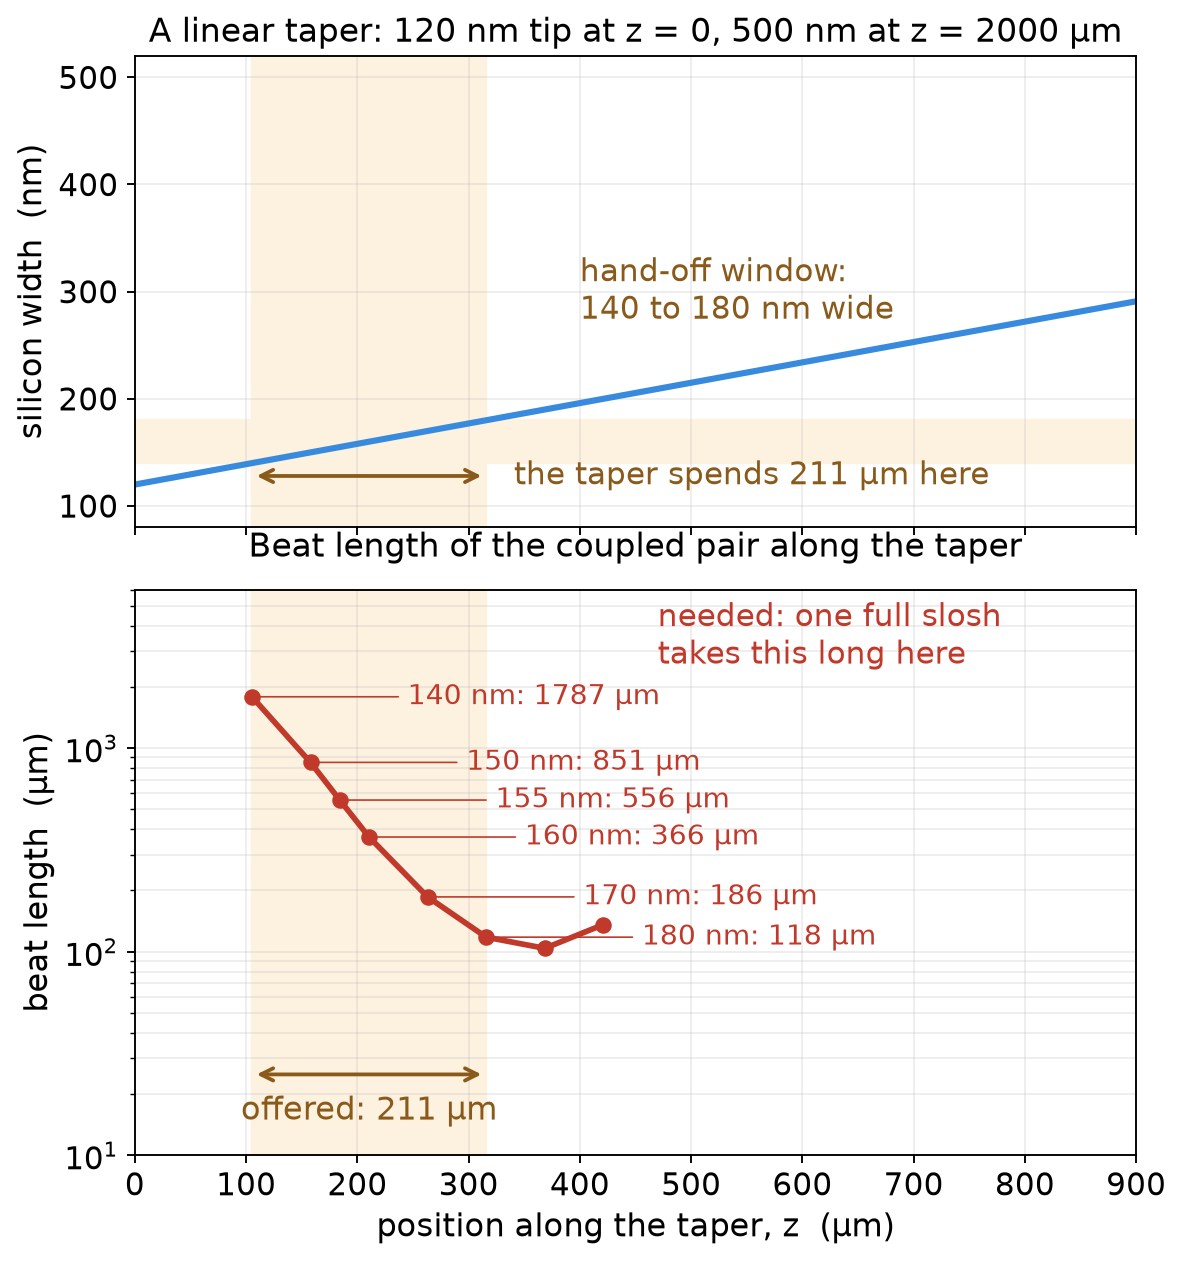
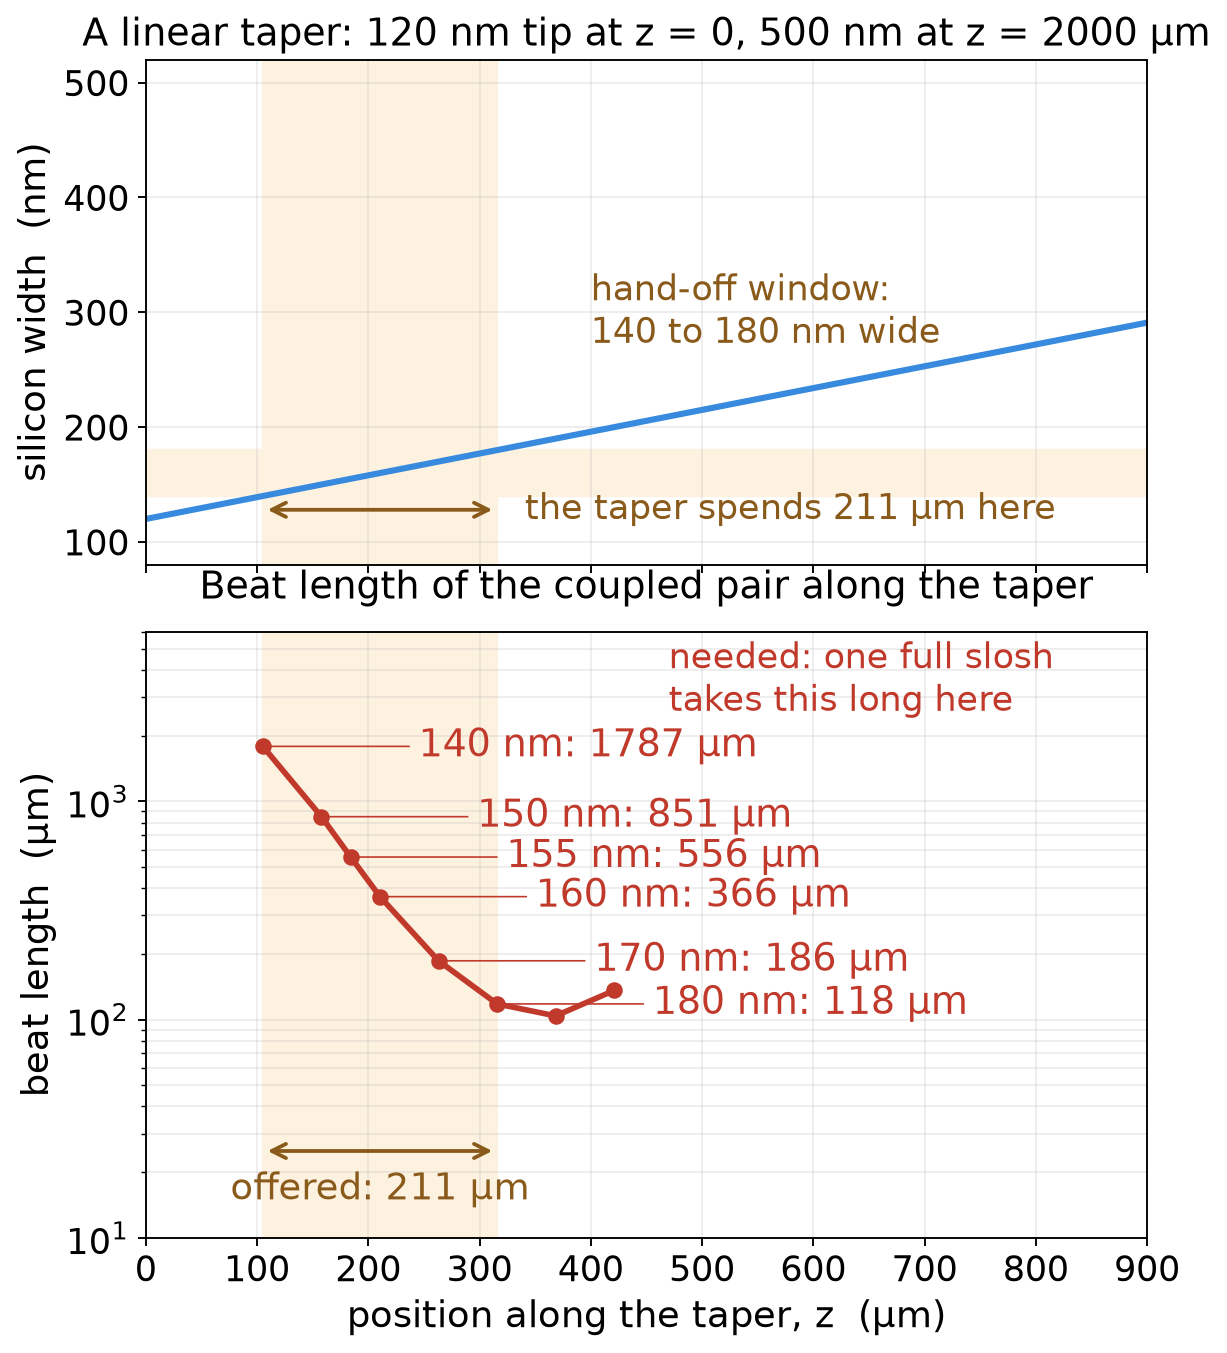
Gallery: version image URLs by content hash; taper-window figure with larger text

diff --git a/chain/figures.html b/chain/figures.html
@@ -57,35 +57,35 @@ anchor: <code>figures.html#name</code> jumps straight to it.</div>
 </div>
 
 <h2>Foundations: light in matter</h2>
-<figure id="polarization-scene"><span class="fid">polarization-scene</span><img src="img/polarization-scene.svg" alt=""><figcaption>The scene behind every equation: an atom with no light, the same atom with the light's field displacing its electron cloud, and every atom doing so at once. P is the polarization of the material; E is the field of the light itself.</figcaption></figure>
-<figure id="phase-delay"><span class="fid">phase-delay</span><img src="img/phase-delay.png" alt=""><figcaption>One thin layer of material. The re-radiated wave lags the incident wave by a quarter cycle; their sum peaks later. Accumulated over many layers, that retardation is the refractive index.</figcaption></figure>
-<figure id="lighthouse"><span class="fid">lighthouse</span><img src="img/lighthouse.svg" alt=""><figcaption>A pattern may outrun light. The spot sweeps faster than c for a large enough radius, but the light at A and at B are different photons that each travelled at c. Nothing crosses from A to B.</figcaption></figure>
-<figure id="lorentz"><span class="fid">lorentz</span><img src="img/lorentz.png" alt=""><figcaption>The bound electron as a driven damped oscillator. Left: its lag behind the driving field, from zero below resonance to half a cycle above. Right: the refractive index and absorption that lag produces.</figcaption></figure>
-<figure id="pendulum"><span class="fid">pendulum</span><img src="img/pendulum.png" alt=""><figcaption>The same equation as a 2.5 m playground swing, solved in steady state. Below resonance it follows the hands; at resonance it lags a quarter cycle and the linear model exceeds its validity; far above it moves against the push.</figcaption></figure>
-<figure id="anharmonic"><span class="fid">anharmonic</span><img src="img/anharmonic.png" alt=""><figcaption>Nonlinearity is the departure of the electron's binding well from a parabola. A symmetric well has no second-order term, which is why silicon and glass have no χ⁽²⁾ and lithium niobate does.</figcaption></figure>
+<figure id="polarization-scene"><span class="fid">polarization-scene</span><img src="img/polarization-scene.svg?v=75dbcd41" alt=""><figcaption>The scene behind every equation: an atom with no light, the same atom with the light's field displacing its electron cloud, and every atom doing so at once. P is the polarization of the material; E is the field of the light itself.</figcaption></figure>
+<figure id="phase-delay"><span class="fid">phase-delay</span><img src="img/phase-delay.png?v=40b8df7e" alt=""><figcaption>One thin layer of material. The re-radiated wave lags the incident wave by a quarter cycle; their sum peaks later. Accumulated over many layers, that retardation is the refractive index.</figcaption></figure>
+<figure id="lighthouse"><span class="fid">lighthouse</span><img src="img/lighthouse.svg?v=1c2ca7ba" alt=""><figcaption>A pattern may outrun light. The spot sweeps faster than c for a large enough radius, but the light at A and at B are different photons that each travelled at c. Nothing crosses from A to B.</figcaption></figure>
+<figure id="lorentz"><span class="fid">lorentz</span><img src="img/lorentz.png?v=21bc74d0" alt=""><figcaption>The bound electron as a driven damped oscillator. Left: its lag behind the driving field, from zero below resonance to half a cycle above. Right: the refractive index and absorption that lag produces.</figcaption></figure>
+<figure id="pendulum"><span class="fid">pendulum</span><img src="img/pendulum.png?v=9427d5f5" alt=""><figcaption>The same equation as a 2.5 m playground swing, solved in steady state. Below resonance it follows the hands; at resonance it lags a quarter cycle and the linear model exceeds its validity; far above it moves against the push.</figcaption></figure>
+<figure id="anharmonic"><span class="fid">anharmonic</span><img src="img/anharmonic.png?v=24806b38" alt=""><figcaption>Nonlinearity is the departure of the electron's binding well from a parabola. A symmetric well has no second-order term, which is why silicon and glass have no χ⁽²⁾ and lithium niobate does.</figcaption></figure>
 
 <h2>Stage 1: the fiber</h2>
-<figure id="mode-front-view"><span class="fid">mode-front-view</span><img src="img/mode-front-view.svg" alt=""><figcaption>A guided mode seen along the direction of travel. The solid circle is the core, a material boundary. The dashed circle is the mode field radius, a property of the light, always outside the core.</figcaption></figure>
-<figure id="lp-modes"><span class="fid">lp-modes</span><img src="img/lp-modes.png" alt=""><figcaption>The first six LP modes of a step-index fiber, solved, and the V number at which each switches on. Single mode means only LP01 fits.</figcaption></figure>
+<figure id="mode-front-view"><span class="fid">mode-front-view</span><img src="img/mode-front-view.svg?v=4af51a80" alt=""><figcaption>A guided mode seen along the direction of travel. The solid circle is the core, a material boundary. The dashed circle is the mode field radius, a property of the light, always outside the core.</figcaption></figure>
+<figure id="lp-modes"><span class="fid">lp-modes</span><img src="img/lp-modes.png?v=db53b26a" alt=""><figcaption>The first six LP modes of a step-index fiber, solved, and the V number at which each switches on. Single mode means only LP01 fits.</figcaption></figure>
 
 <h2>Stage 2: the glass</h2>
-<figure id="iox-process"><span class="fid">iox-process</span><img src="img/iox-process.svg" alt=""><figcaption>Ion exchange: masked exchange in a molten salt, the graded surface profile it leaves, and field-assisted burial. No deposition and no etching.</figcaption></figure>
-<figure id="fiber-glass-joint"><span class="fid">fiber-glass-joint</span><img src="img/fiber-glass-joint.svg" alt=""><figcaption>The fiber butt-coupled to the polished glass edge through index-matching adhesive, and both modes end-on at the same scale. The mismatch alone costs 0.44 dB with no misalignment.</figcaption></figure>
-<figure id="bend-loss"><span class="fid">bend-loss</span><img src="img/bend-loss.svg" alt=""><figcaption>A bend, and the same bend straightened by the conformal transformation. The tilted cladding index meets the mode's effective index at the caustic; between the core and the caustic is a barrier the light tunnels through.</figcaption></figure>
-<figure id="bend-in-context"><span class="fid">bend-in-context</span><img src="img/bend-in-context.svg" alt=""><figcaption>A 15 mm bend at true scale, where the waveguide is thinner than the drawn line, with the caustic region magnified 250 times.</figcaption></figure>
-<figure id="bend-loss-curve"><span class="fid">bend-loss-curve</span><img src="img/bend-loss-curve.png" alt=""><figcaption>Relative leakage against bend radius for silicon, silicon nitride and ion-exchanged glass. Same physics, cliffs four orders of magnitude apart.</figcaption></figure>
+<figure id="iox-process"><span class="fid">iox-process</span><img src="img/iox-process.svg?v=84c00ff1" alt=""><figcaption>Ion exchange: masked exchange in a molten salt, the graded surface profile it leaves, and field-assisted burial. No deposition and no etching.</figcaption></figure>
+<figure id="fiber-glass-joint"><span class="fid">fiber-glass-joint</span><img src="img/fiber-glass-joint.svg?v=1b68c294" alt=""><figcaption>The fiber butt-coupled to the polished glass edge through index-matching adhesive, and both modes end-on at the same scale. The mismatch alone costs 0.44 dB with no misalignment.</figcaption></figure>
+<figure id="bend-loss"><span class="fid">bend-loss</span><img src="img/bend-loss.svg?v=7f131f9c" alt=""><figcaption>A bend, and the same bend straightened by the conformal transformation. The tilted cladding index meets the mode's effective index at the caustic; between the core and the caustic is a barrier the light tunnels through.</figcaption></figure>
+<figure id="bend-in-context"><span class="fid">bend-in-context</span><img src="img/bend-in-context.svg?v=e9fb7375" alt=""><figcaption>A 15 mm bend at true scale, where the waveguide is thinner than the drawn line, with the caustic region magnified 250 times.</figcaption></figure>
+<figure id="bend-loss-curve"><span class="fid">bend-loss-curve</span><img src="img/bend-loss-curve.png?v=5b6749bb" alt=""><figcaption>Relative leakage against bend radius for silicon, silicon nitride and ion-exchanged glass. Same physics, cliffs four orders of magnitude apart.</figcaption></figure>
 
 <h2>Stage 3: glass to silicon</h2>
-<figure id="handoff"><span class="fid">handoff</span><img src="img/handoff.svg" alt=""><figcaption>The scene: the ion-exchanged guide in the glass, the adhesive bondline, and the silicon taper of the face-down die. The mode starts in the glass and climbs into the silicon as the taper widens.</figcaption></figure>
-<figure id="taper-plan"><span class="fid">taper-plan</span><img src="img/taper-plan.svg" alt=""><figcaption>The taper from above: 120 nm at the tip, 500 nm at the far end, 2 mm long, with the hand-off window shaded. The length is compressed about 700 times; at true scale it is 4000 times longer than it is wide.</figcaption></figure>
-<figure id="anticrossing"><span class="fid">anticrossing</span><img src="img/anticrossing.png" alt=""><figcaption>The two guides alone would cross at 156 nm. Solved together they refuse to, and the light rides the upper curve from a glass mode into a silicon mode. The gap sets the beat length, and the beat length sets how slowly the taper must change.</figcaption></figure>
+<figure id="handoff"><span class="fid">handoff</span><img src="img/handoff.svg?v=7ee56839" alt=""><figcaption>The scene: the ion-exchanged guide in the glass, the adhesive bondline, and the silicon taper of the face-down die. The mode starts in the glass and climbs into the silicon as the taper widens.</figcaption></figure>
+<figure id="taper-plan"><span class="fid">taper-plan</span><img src="img/taper-plan.svg?v=ab18c745" alt=""><figcaption>The taper from above: 120 nm at the tip, 500 nm at the far end, 2 mm long, with the hand-off window shaded. The length is compressed about 700 times; at true scale it is 4000 times longer than it is wide.</figcaption></figure>
+<figure id="anticrossing"><span class="fid">anticrossing</span><img src="img/anticrossing.png?v=1564dc3f" alt=""><figcaption>The two guides alone would cross at 156 nm. Solved together they refuse to, and the light rides the upper curve from a glass mode into a silicon mode. The gap sets the beat length, and the beat length sets how slowly the taper must change.</figcaption></figure>
 
-<figure id="beat-length"><span class="fid">beat-length</span><img src="img/beat-length.png" alt=""><figcaption>What a beat length is. Two phase-matched guides held at fixed geometry: light launched in the glass is entirely in the silicon after half a beat length and back in the glass after one. The beat length runs along the light; the adhesive thickness runs across it and is one of the things that sets the beat length, not something compared with it.</figcaption></figure>
+<figure id="beat-length"><span class="fid">beat-length</span><img src="img/beat-length.png?v=46c26ea1" alt=""><figcaption>What a beat length is. Two phase-matched guides held at fixed geometry: light launched in the glass is entirely in the silicon after half a beat length and back in the glass after one. The beat length runs along the light; the adhesive thickness runs across it and is one of the things that sets the beat length, not something compared with it.</figcaption></figure>
 
-<figure id="taper-window"><span class="fid">taper-window</span><img src="img/taper-window.png" alt=""><figcaption>Offered against needed, on one axis. Top: a linear taper from a 120 nm tip to 500 nm over 2 mm spends about 210 µm of its length passing through the 140 to 180 nm window where the hand-off happens. Bottom: the beat length of the coupled pair at each point of that same stretch, from 118 µm to 1.8 mm. The taper offers less length than one slosh needs over most of the window.</figcaption></figure>
+<figure id="taper-window"><span class="fid">taper-window</span><img src="img/taper-window.png?v=2e647b70" alt=""><figcaption>Offered against needed, on one axis. Top: a linear taper from a 120 nm tip to 500 nm over 2 mm spends about 210 µm of its length passing through the 140 to 180 nm window where the hand-off happens. Bottom: the beat length of the coupled pair at each point of that same stretch, from 118 µm to 1.8 mm. The taper offers less length than one slosh needs over most of the window.</figcaption></figure>
 
 <h2>Aside: photonic computing</h2>
-<figure id="photonic-compute"><span class="fid">photonic-compute</span><img src="img/photonic-compute.svg" alt=""><figcaption>One layer of a photonic neural network. The matrix multiply happens passively in a mesh of interferometers; the nonlinearity has to leave the optical domain or use a weak optical effect.</figcaption></figure>
+<figure id="photonic-compute"><span class="fid">photonic-compute</span><img src="img/photonic-compute.svg?v=6956644c" alt=""><figcaption>One layer of a photonic neural network. The matrix multiply happens passively in a mesh of interferometers; the nonlinearity has to leave the optical domain or use a weak optical effect.</figcaption></figure>
 
 <div class="note">Part of <a href="index.html">the optical chain</a>.</div>
 </div>

diff --git a/chain/taper_window.py b/chain/taper_window.py
@@ -14,7 +14,7 @@ import pathlib
 import matplotlib.pyplot as plt
 import numpy as np
 
-plt.rcParams.update({"font.size": 13})
+plt.rcParams.update({"font.size": 15})
 
 TIP, END, LEN = 120.0, 500.0, 2000.0
 slope = (END - TIP) / LEN                       # nm per um
@@ -28,34 +28,34 @@ beat = np.array([[200, 136], [190, 104], [180, 118], [170, 186], [160, 366],
                  [155, 556], [150, 851], [140, 1787]])
 zb = zw(beat[:, 0])
 
-fig, (a, b) = plt.subplots(2, 1, figsize=(7.6, 8.4), sharex=True,
+fig, (a, b) = plt.subplots(2, 1, figsize=(7.6, 9.0), sharex=True,
                            gridspec_kw=dict(hspace=0.12, height_ratios=[1, 1.2]))
 z = np.linspace(0, LEN, 400)
 a.plot(z, w(z), lw=2.6, color="#378ADD")
 a.axhspan(W0, W1, color="#fdf1e0")
 a.axvspan(z0, z1, color="#fdf1e0")
 a.annotate("", xy=(z1, 128), xytext=(z0, 128), arrowprops=dict(arrowstyle="<->", color="#8a5a1b", lw=1.6))
-a.text(z1 + 25, 128, f"the taper spends {z1 - z0:.0f} µm here", ha="left", va="center", fontsize=13, color="#8a5a1b")
-a.text(400, 300, "hand-off window:\n140 to 180 nm wide", fontsize=13, color="#8a5a1b", va="center")
-a.set_ylabel("silicon width  (nm)", fontsize=13.5)
+a.text(z1 + 25, 128, f"the taper spends {z1 - z0:.0f} µm here", ha="left", va="center", fontsize=15, color="#8a5a1b")
+a.text(400, 300, "hand-off window:\n140 to 180 nm wide", fontsize=15, color="#8a5a1b", va="center")
+a.set_ylabel("silicon width  (nm)", fontsize=15.5)
 a.set_ylim(80, 520); a.grid(alpha=.22)
-a.set_title(f"A linear taper: {TIP:.0f} nm tip at z = 0, {END:.0f} nm at z = {LEN:.0f} µm", fontsize=14)
+a.set_title(f"A linear taper: {TIP:.0f} nm tip at z = 0, {END:.0f} nm at z = {LEN:.0f} µm", fontsize=16)
 
 b.semilogy(zb, beat[:, 1], "o-", lw=2.4, ms=6, color="#c0392b")
 b.axvspan(z0, z1, color="#fdf1e0")
 for k, (zz, (wn, L)) in enumerate(zip(zb, beat)):
     if 140 <= wn <= 180:
         b.annotate(f"{wn:.0f} nm: {L:.0f} µm", xy=(zz, L), xytext=(zz + 140, L),
-                   fontsize=12, color="#c0392b", va="center",
+                   fontsize=16, color="#c0392b", va="center",
                    arrowprops=dict(arrowstyle="-", color="#c0392b", lw=0.7))
 b.annotate("", xy=(z1, 25), xytext=(z0, 25), arrowprops=dict(arrowstyle="<->", color="#8a5a1b", lw=1.6))
-b.text((z0 + z1) / 2, 15, f"offered: {z1 - z0:.0f} µm", ha="center", fontsize=13.5, color="#8a5a1b")
-b.text(470, 2600, "needed: one full slosh\ntakes this long here", fontsize=13, color="#c0392b")
+b.text((z0 + z1) / 2, 15, f"offered: {z1 - z0:.0f} µm", ha="center", fontsize=15.5, color="#8a5a1b")
+b.text(470, 2600, "needed: one full slosh\ntakes this long here", fontsize=15, color="#c0392b")
 b.set_ylim(10, 6000); b.set_xlim(0, 900)
-b.set_xlabel("position along the taper, z  (µm)", fontsize=13.5)
-b.set_ylabel("beat length  (µm)", fontsize=13.5)
+b.set_xlabel("position along the taper, z  (µm)", fontsize=15.5)
+b.set_ylabel("beat length  (µm)", fontsize=15.5)
 b.grid(alpha=.22, which="both")
-b.set_title("Beat length of the coupled pair along the taper", fontsize=14, pad=14)
+b.set_title("Beat length of the coupled pair along the taper", fontsize=16, pad=14)
 
 out = pathlib.Path(__file__).parent / "img" / "taper-window.png"
 fig.savefig(out, dpi=170, bbox_inches="tight", facecolor="white")
